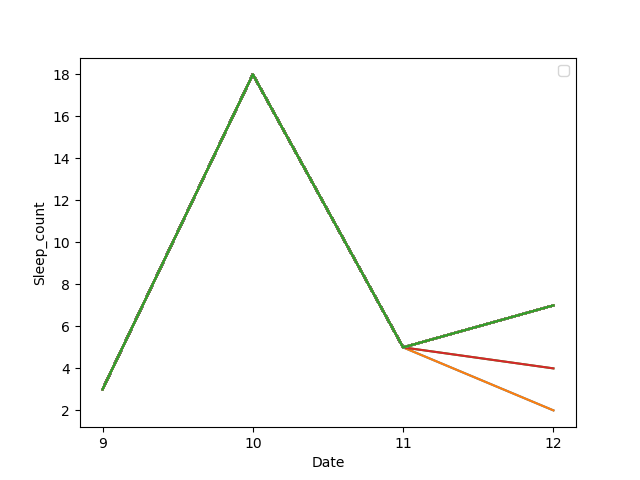
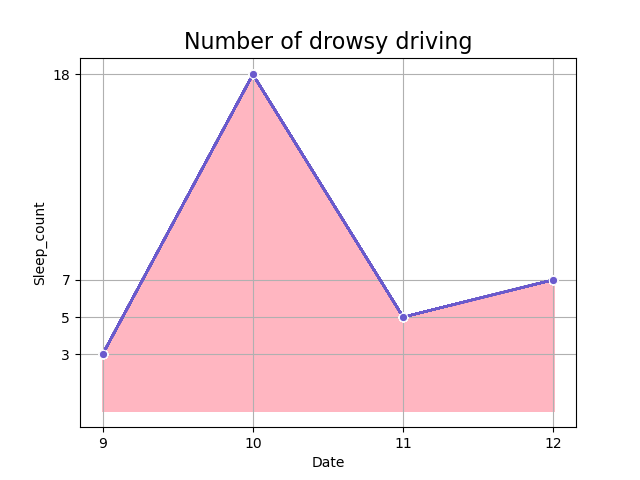
django_merge

diff --git a/Eyes detection-Django/team5_project_django/co_eyes/templates/main.html b/Eyes detection-Django/team5_project_django/co_eyes/templates/main.html
@@ -37,7 +37,7 @@
         <img class="img_100" src="/static/img/drive02.png">
     </div>
 
-    <div class="box img_101">
+    <div class="box"> <!-- img_101 -->
         <nav class="sb-topnav navbar navbar-expand navbar-dark bg-dark">
             <!-- Navbar Brand-->
             <a class="navbar-brand ps-3 F_leferi" href="main.html">졸음운전 통계</a>
@@ -51,15 +51,69 @@
 {#                </div>#}
 {#            </form>#}
         </nav>
-            <div id="layoutSidenav_content" style="background-color: red">
+            <div id="layoutSidenav_content">
                 <main>
-                    <div class="container-fluid px-4" style="background-color: blue">
+                    <div class="container-fluid px-4 text-center">
                         <ol class="breadcrumb mb-4">
                             <li class="breadcrumb-item active"></li>
                         </ol>
+                                            <div class="row">
+                            <div class="col-sm-auto" style="width:13rem">
+                                <div class="card bg-warning text-white">
+                                    <div class="card-body" >
+                                        <span class="F_col_w" style=" font-size:15px; color:white;">온도</span></div>
+                                        <div class="card-footer d-flex align-items-center justify-content-between text-center">
+                                        {% csrf_token %}
+                                            <span class="text-center" style=" font-size:20px; color:white;">
+                                                {{ temp }}°C  </span>
+                                        <div class="small text-white"></div>
+                                    </div>
+                                </div>
+                            </div>
+                            <div class="col-sm-auto text-center" style="width:13rem">
+                                <div class="card bg-danger text-white mb-4">
+                                    <div class="card-body" >
+                                        <span class="F_col_w" style=" font-size:15px;">이산화탄소</span></div>
+                                        <div class="card-footer d-flex align-items-center justify-content-between">
+                                        {% csrf_token %}
+                                            <span class="F_col_w" style=" font-size:20px;">
+                                                {{ co2 }} rpm </span>
+                                        <div class="small text-white"></div>
+                                    </div>
+                                </div>
+                            </div>
+                            <div class="col-sm-auto text-center" style="width:13rem"">
+                                <div class="card bg-primary text-white mb-4">
+                                    <div class="card-body" >
+                                        <span class="F_col_w" style=" font-size:15px;">습도</span></div>
+                                        <div class="card-footer d-flex align-items-center justify-content-between">
+                                        {% csrf_token %}
+                                            <span class="F_col_w text-center" style=" font-size:20px;">
+                                                {{ humid }}% </span>
+                                        <div class="small text-white"></div>
+                                    </div>
+                                </div>
+                            </div>
+                        </div>
                         <div class="row">
                             <div class="col-xl-6">
                                 <div class="card mb-4">
+                                    <div class="card text-center" style="width: auto;" >
+                                        {% if y_predict <= 50 %}
+                                            <span style="font-size: 20px;">
+                                                졸릴 확률이 높습니다. 환기를 시켜주세요</span>
+                                        {% else %}
+                                            <span style="font-size: 20px;">
+                                                안전운전 하십시요</span>
+                                        {% endif %}
+                                    </div>
+                                </div>
+                            </div>
+                        </div>
+                        <div class="row">
+                        <div class="row">
+                            <div class="col-xl-6">
+                                <div class="card mb-4" style="width: 20rem;">
 
                                     <div class="card-header">
                                         <i class="fas fa-chart-area me-1 F_col_b"></i>
@@ -97,6 +151,7 @@
                             </div>
                         </div>
                     </div>
+                <img class="img_100" src="/static/img/drive04.png">
 
                 </main>
 

diff --git a/Eyes detection-Django/team5_project_django/co_eyes/views.py b/Eyes detection-Django/team5_project_django/co_eyes/views.py
@@ -1,27 +1,27 @@
+
 from .models import Predictlabel, Temp
 from django.shortcuts import redirect, render
 import joblib
+from django.db.models import Sum, Count,Max
 import numpy as np
-import matplotlib.pyplot as plt
 import pandas as pd
+import matplotlib.pyplot as plt
 import seaborn as sns
 
 
-
-# Create your views here.
-# def co_eyes(request):
-#     class_object = Temp.objects.last()
-#     return render(request, "main.html", {'class_object': class_object})
-
-'''
 def predict(request):
     object_name = Temp.objects.last()
     temp = object_name.temperature
     humid = object_name.humidity
+    co2 = object_name.co2
 
     temp = float(temp)
     humid = float(humid)
-    co2 = 1000
+    co2 = float(co2)
+
+    day_list = Predictlabel.objects.values(
+        'register_date__day'
+    ).annotate(daily_total=Sum('total_sleep_count'))
 
     estimator = joblib.load(r'C:\jupyter_home\Machine_Learning\ML_Project_5th\5th_ML_Project\Eyes detection-Django\team5_project_django\static\ml_model\temp_lightgbm.pkl')
 
@@ -34,47 +34,15 @@ def predict(request):
     df['register_date'] = df['register_date'].dt.day
     df = df.groupby('register_date').max()
 
-    plt.plot(df.index, df['total_sleep_count'])
+    plt.grid(True)
+    sns.lineplot(df.index,df['total_sleep_count'],color='slateblue', marker='o')
+    plt.fill_between(df.index,df['total_sleep_count'],color='lightpink', alpha=0.4)
     plt.xticks(df.index)
+    plt.yticks(df['total_sleep_count'])
     plt.xlabel('Date')
     plt.ylabel('Sleep_count')
-    plt.legend()
+    plt.title('Number of drowsy driving',fontsize=16)
 
-    plt.savefig(
-        'C:/jupyter_home/Machine_Learning/ML_Project_5th/5th_ML_Project/Eyes detection-Django/team5_project_django/static/img/graph.png')
+    plt.savefig('C:/jupyter_home/Machine_Learning/ML_Project_5th/5th_ML_Project/Eyes detection-Django/team5_project_django/static/img/graph.png')
 
-    return render(request, 'main.html', {'y_predict': y_pred_proba})
-'''
-
-def predict(request):
-    object_name = Temp.objects.last()
-    temp = object_name.temperature
-    humid = object_name.humidity
-
-    temp = float(temp)
-    humid = float(humid)
-    co2 = 1000
-
-    estimator = joblib.load(r'C:\jupyter_home\Machine_Learning\ML_Project_5th\5th_ML_Project\Eyes detection-Django\team5_project_django\static\ml_model\temp_lightgbm.pkl')
-
-    x_test = [[temp, humid, co2]]
-
-    y_predict = estimator.predict(x_test)
-    y_pred_proba = np.floor(estimator.predict_proba(x_test)[:, 1] * 100)
-
-    df = pd.DataFrame(list(Predictlabel.objects.all().values()))
-    df['register_date'] = df['register_date'].dt.day
-    df = df.groupby('register_date').max()
-
-    #sns.lineplot(data=df)
-    plt.plot(df.index, df['total_sleep_count'])
-    plt.xticks(df.index)
-    plt.xlabel('Date')
-    plt.ylabel('Sleep_count')
-    plt.legend()
-
-    plt.savefig(
-        'C:/jupyter_home/Machine_Learning/ML_Project_5th/5th_ML_Project/Eyes detection-Django/team5_project_django/static/img/graph.png')
-
-
-    return render(request, 'main.html', {'y_predict': y_pred_proba})
+    return render(request, 'main.html', {'y_predict': y_pred_proba, 'temp': temp, 'co2' : co2, 'humid' : humid})
